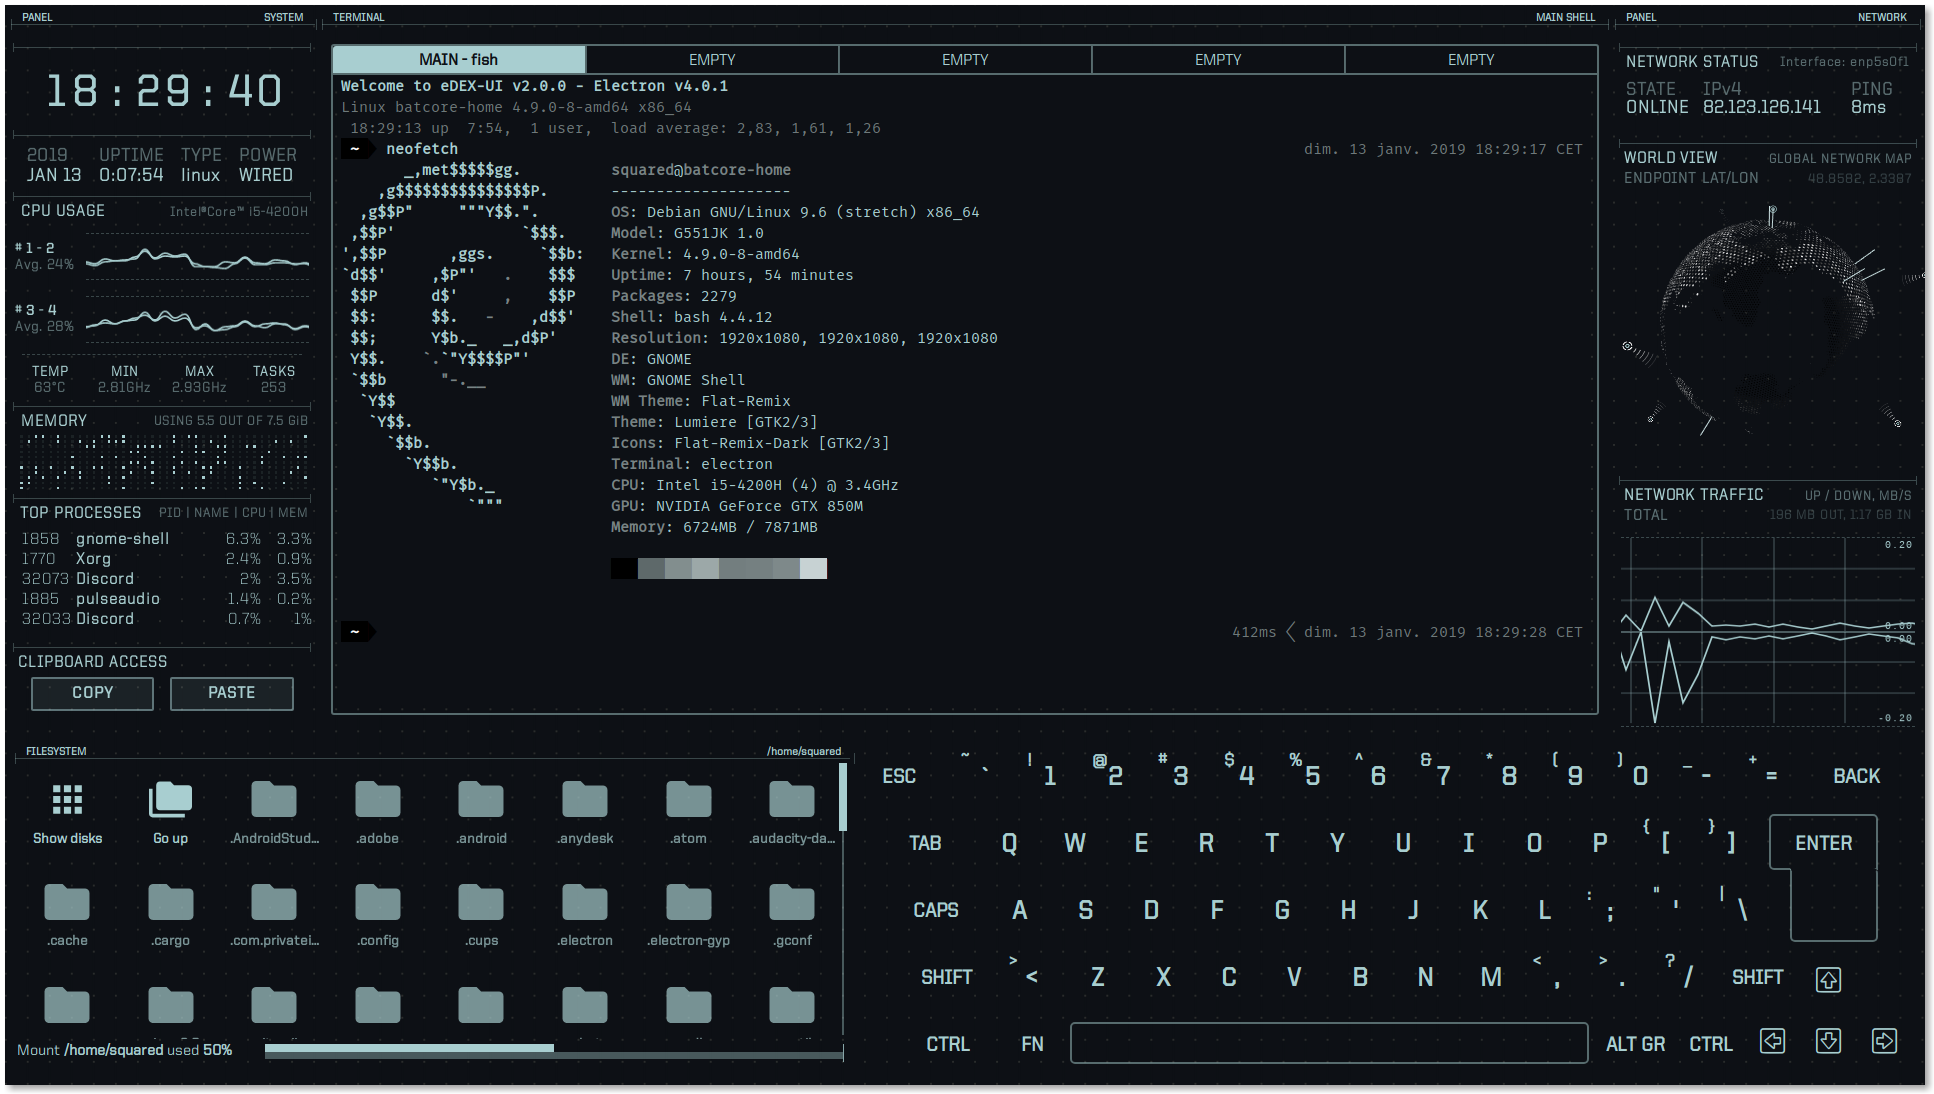
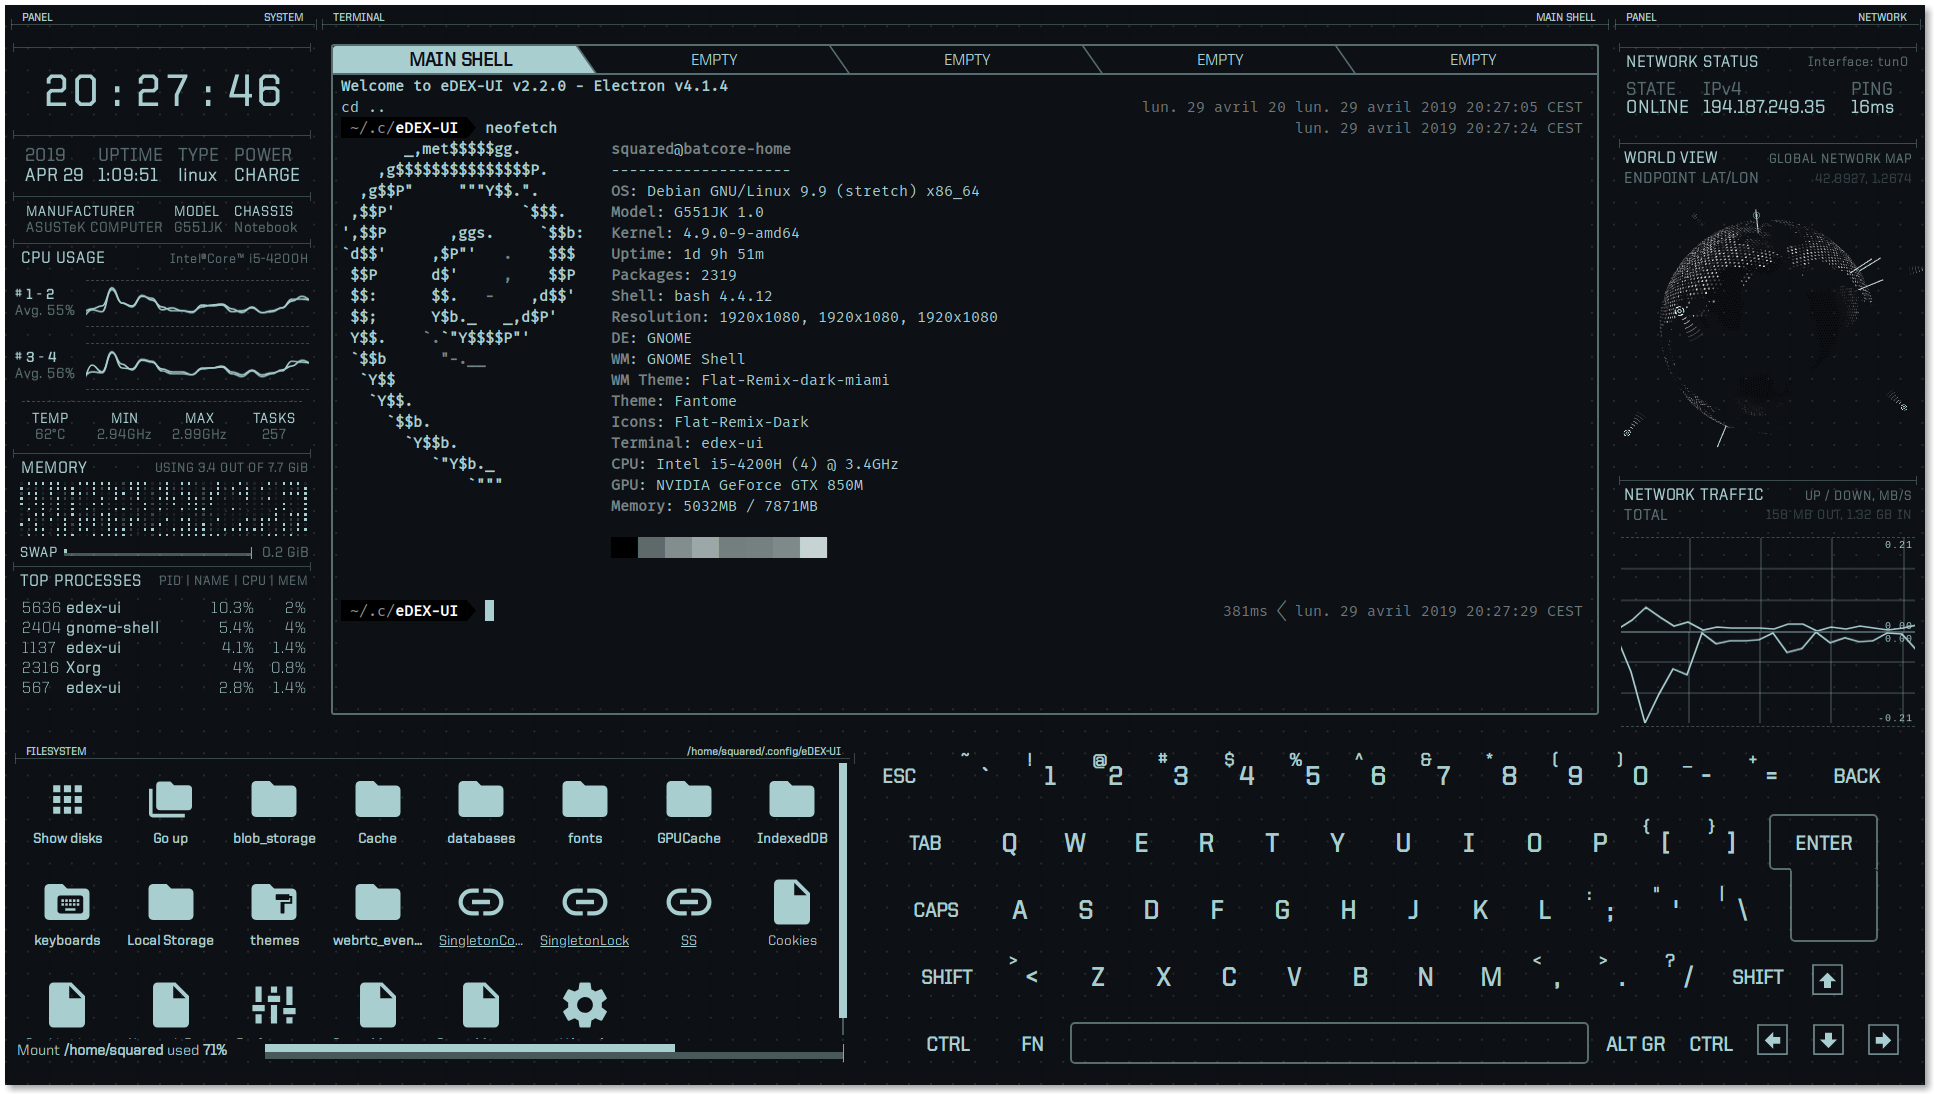
:memo: Update screenshots

diff --git a/README.md b/README.md
@@ -27,7 +27,7 @@ It might or might not be a joke taken too seriously.
 
 ## Features
 - Fully featured terminal emulator with tabs, colors, mouse events, and support for `curses` and `curses`-like applications.
-- Real-time system (CPU, RAM, processes) and network (GeoIP, active connections, transfer rates) monitoring.
+- Real-time system (CPU, RAM, swap, processes) and network (GeoIP, active connections, transfer rates) monitoring.
 - Full support for touch-enabled displays, including an on-screen keyboard.
 - Directory viewer that follows the CWD (current working directory) of the terminal.
 - Advanced customization using themes, on-screen keyboard layouts, CSS injections. See the [wiki](https://github.com/GitSquared/edex-ui/wiki) for more info.
@@ -36,15 +36,15 @@ It might or might not be a joke taken too seriously.
 ## Screenshots
 ![Default screenshot](https://github.com/GitSquared/edex-ui/raw/master/media/screenshot_default.png)
 
-_([neofetch](https://github.com/dylanaraps/neofetch) on eDEX-UI 2.0 with the default "tron" theme & QWERTY keyboard)_
+_([neofetch](https://github.com/dylanaraps/neofetch) on eDEX-UI 2.2 with the default "tron" theme & QWERTY keyboard)_
 
-![Nord screenshot](https://github.com/GitSquared/edex-ui/raw/master/media/screenshot_nord.png)
+![Interstellar screenshot](https://github.com/GitSquared/edex-ui/raw/master/media/screenshot_white.png)
 
-_(Graphical settings editor on eDEX-UI 2.0 with the "nord" colorful theme)_
+_(Graphical settings editor and list of keyboard shortcuts on eDEX-UI 2.2 with the "interstellar" bright theme)_
 
 ![Disrupted screenshot](https://github.com/GitSquared/edex-ui/raw/master/media/screenshot_disrupted.png)
 
-_([fx](https://github.com/antonmedv/fx) showing the results of a [ipapi](https://github.com/GitSquared/ipapi) query on eDEX-UI 2.0 with the experimental "tron-disrupted" theme, and the user-contributed DVORAK keyboard)_
+_([cmatrix](https://github.com/abishekvashok/cmatrix) on eDEX-UI 2.2 with the experimental "tron-disrupted" theme, and the user-contributed DVORAK keyboard)_
 
 ## Q&A
 #### Where can I find download links?
